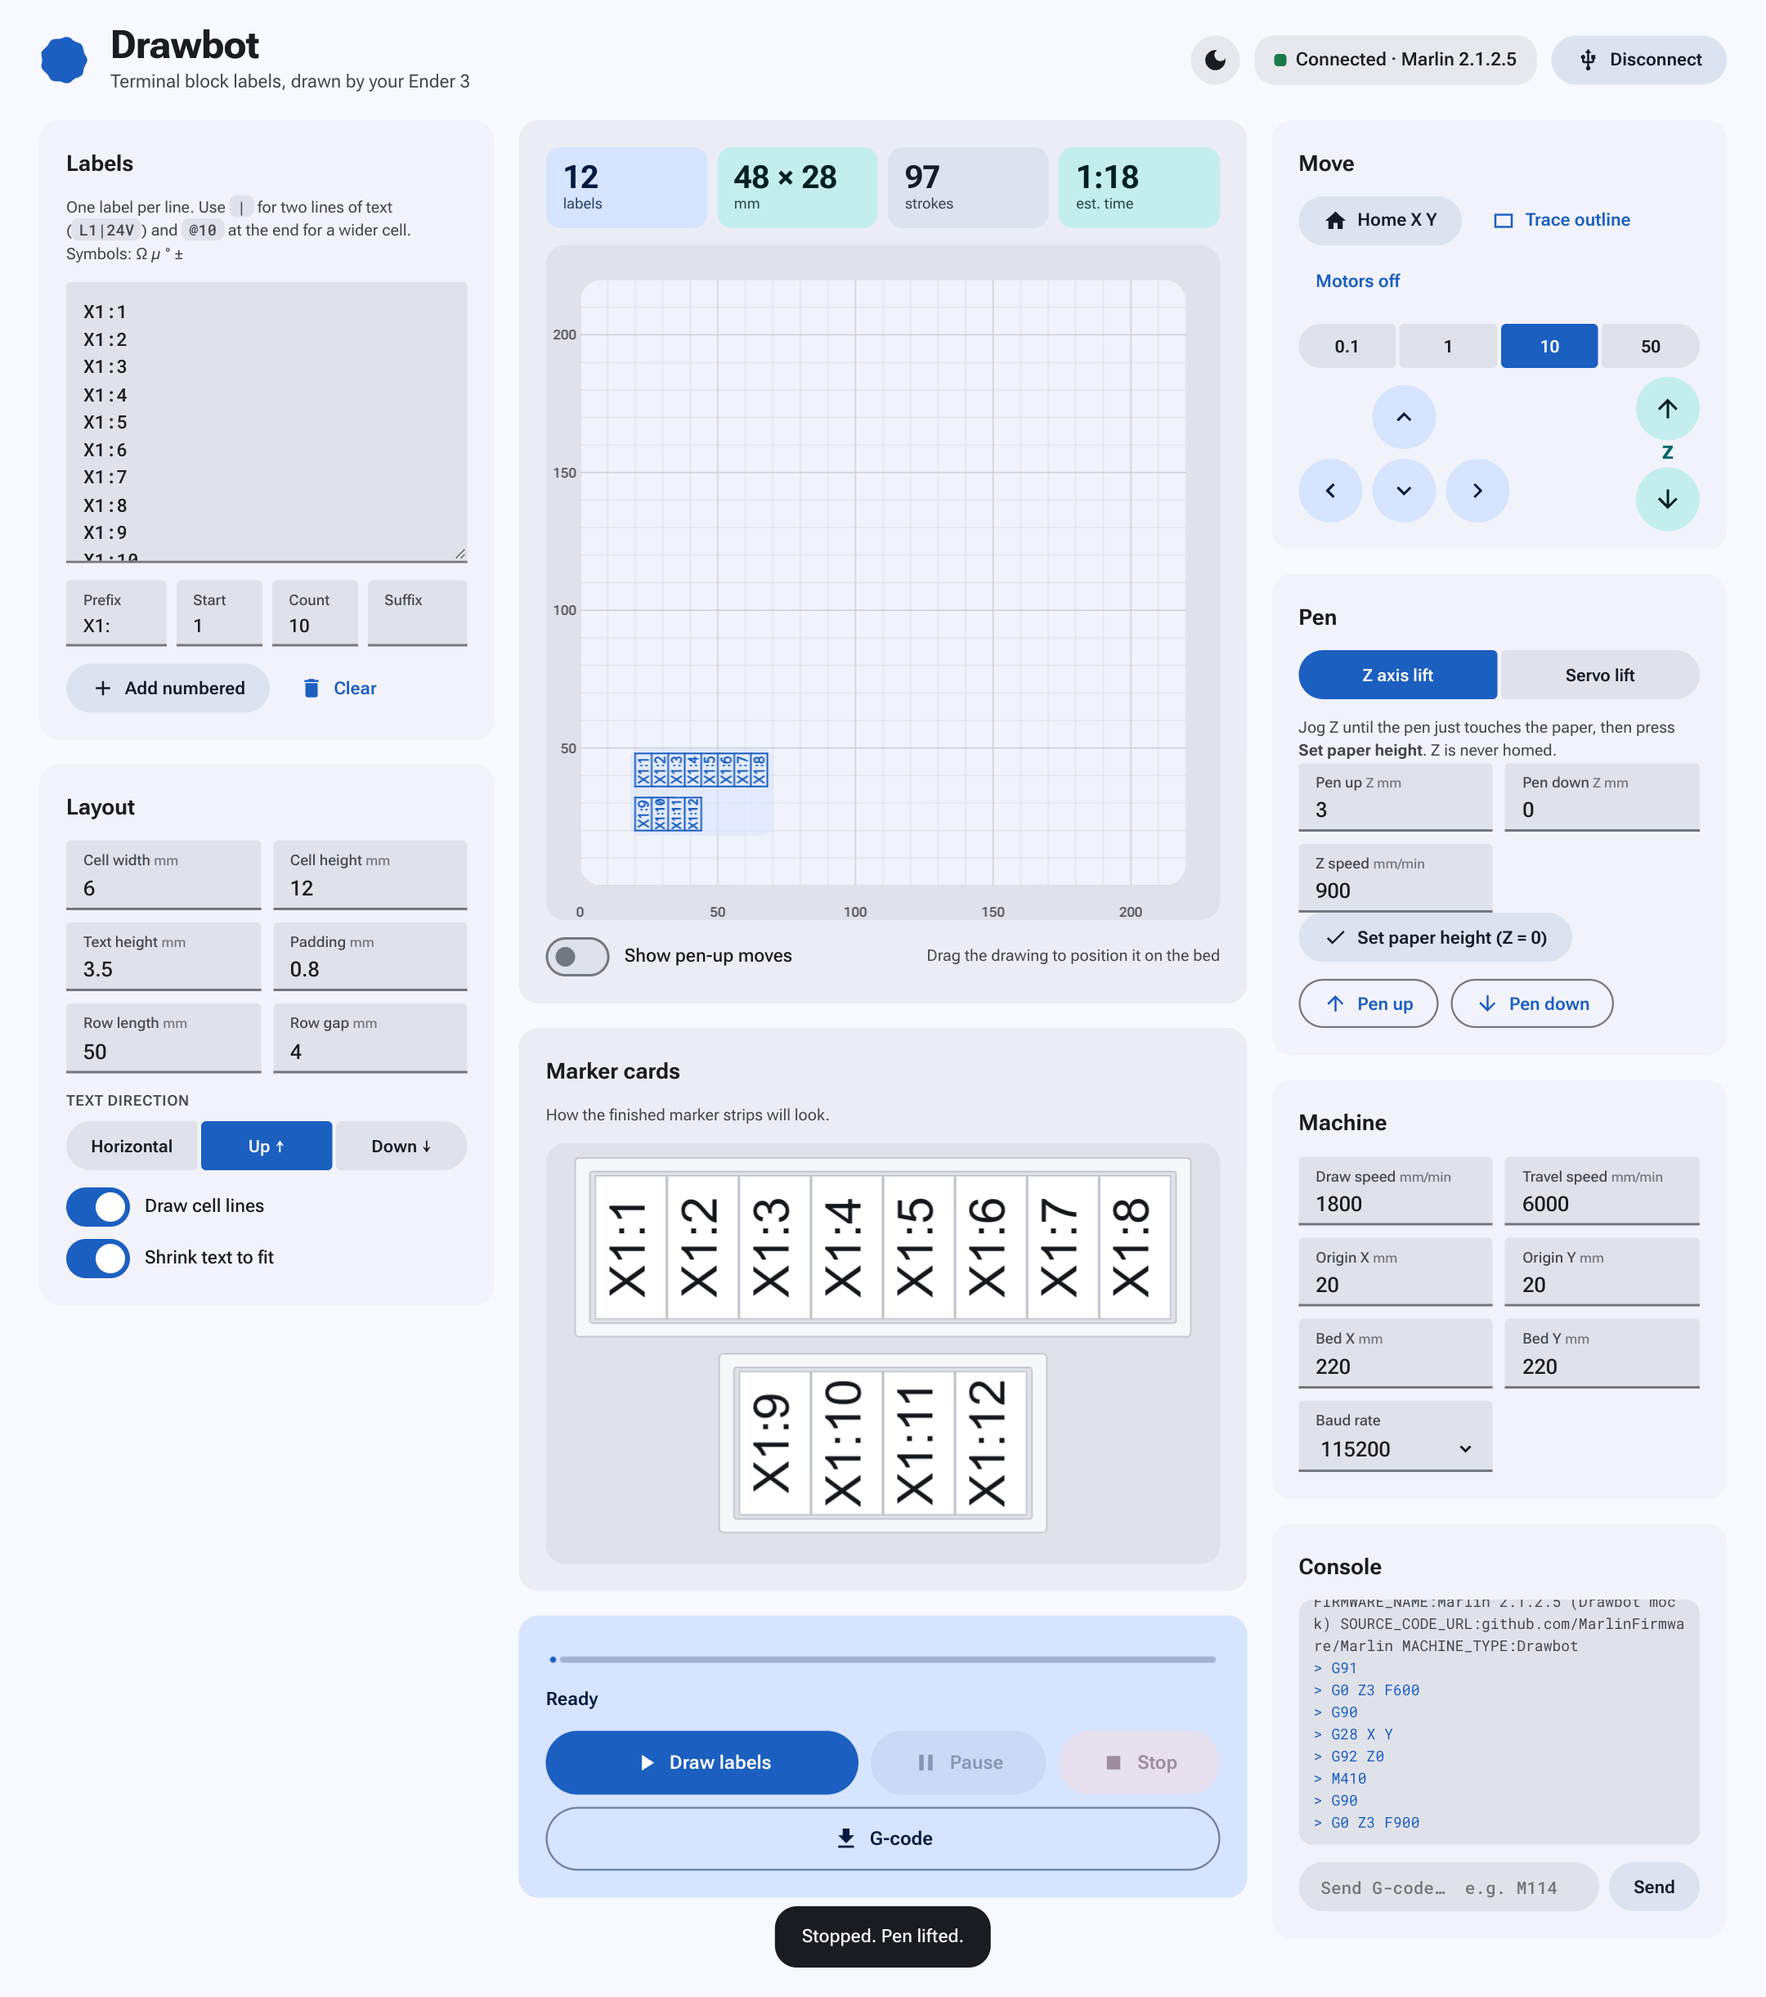
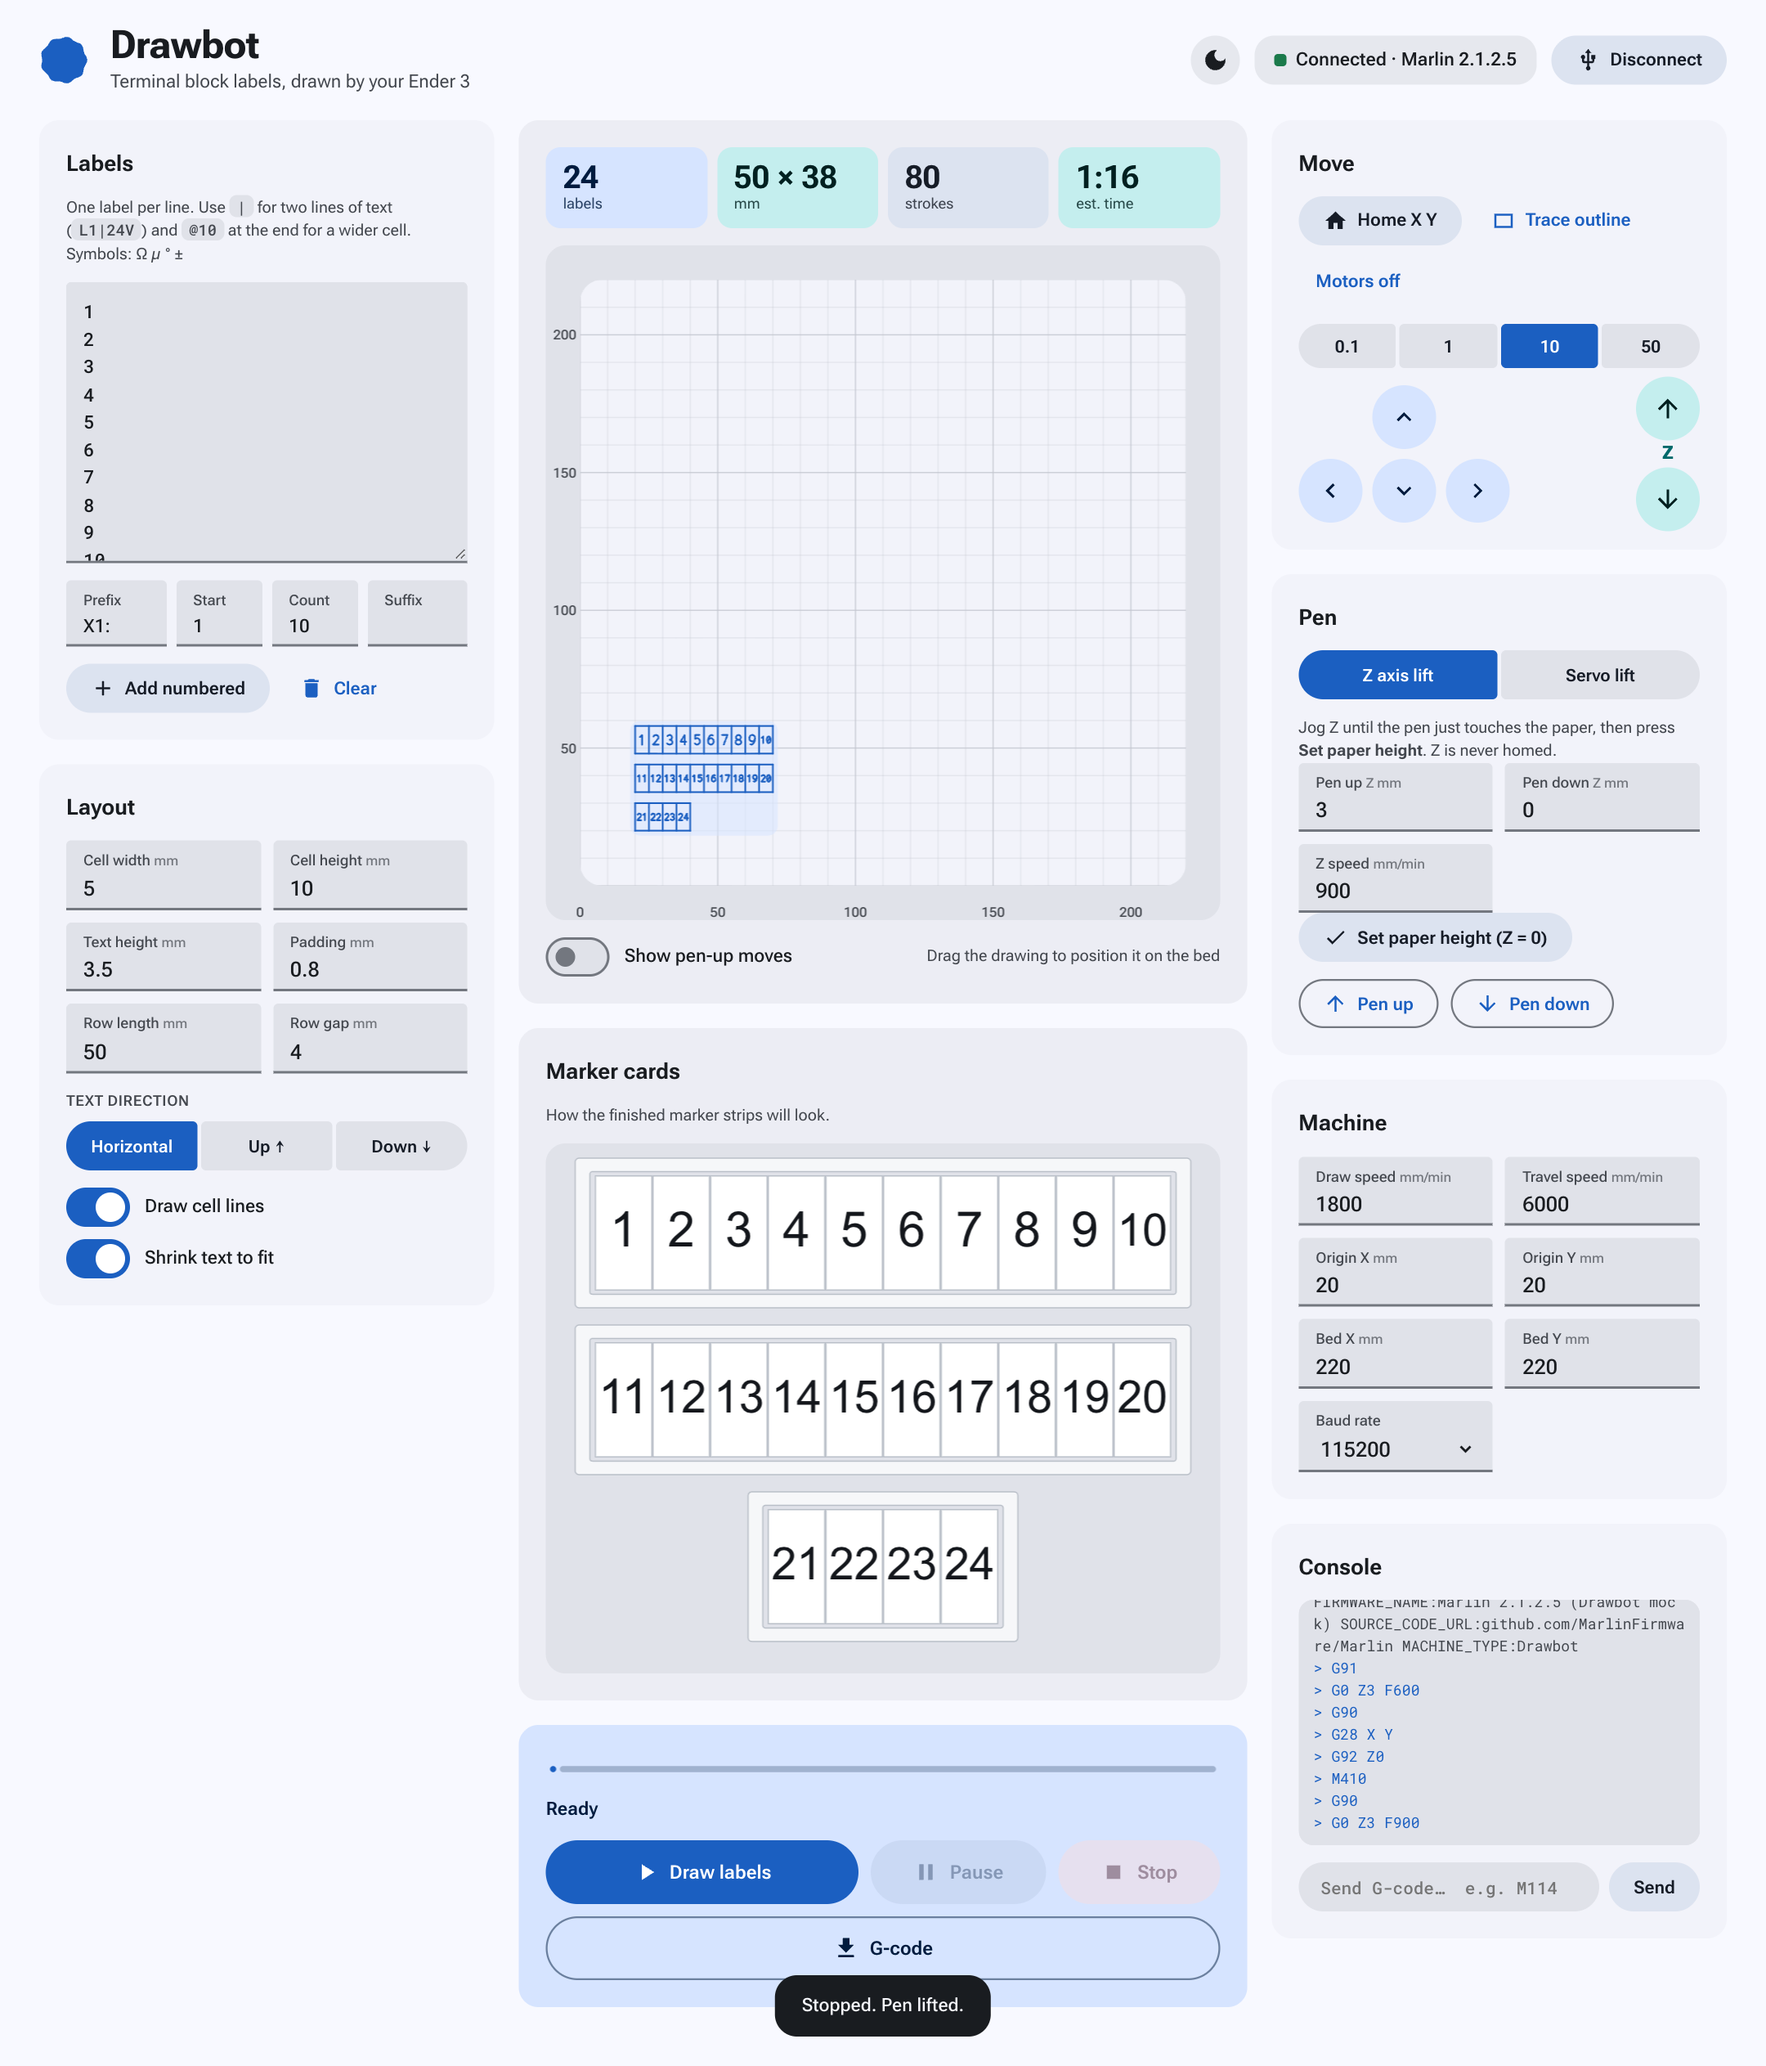
Regenerate screenshots with marker-strip defaults; re-verify firmware patch against current Marlin bugfix-2.1.x; update README

diff --git a/tests/e2e.js b/tests/e2e.js
@@ -21,9 +21,9 @@ const check = (group, name, pass, detail = '') => { results.push({ group, name, 
 const sleep = ms => new Promise(r => setTimeout(r, ms));
 
 const DATASETS = [
-  { id: 'numbered', title: 'Numbered strip, vertical text',
-    labels: Array.from({ length: 12 }, (_, i) => 'X1:' + (i + 1)).join('\n'),
-    num: { cellW: 6, cellH: 12, textH: 3.5 }, seg: { rotSeg: '90', modeSeg: 'z' } },
+  { id: 'numbered', title: 'Numbered marker strips, 5 mm cells',
+    labels: Array.from({ length: 24 }, (_, i) => String(i + 1)).join('\n'),
+    num: { cellW: 5, cellH: 10, textH: 3.5, rowLen: 50 }, seg: { rotSeg: '0', modeSeg: 'z' } },
   { id: 'symbols', title: 'Mixed symbols and two-line labels',
     labels: 'L1|24V\nL2|24V\n0V\nPE@8\n10kΩ\n4.7µF\n±5%\n85°C\nA-B/C\n(IN)+\n#7 &8', num: { cellW: 9, cellH: 14, textH: 3.5 }, seg: { rotSeg: '90', modeSeg: 'z' } },
   { id: 'horizontal', title: 'Horizontal text in wide cells',

diff --git a/README.md b/README.md
@@ -1,7 +1,7 @@
 # Drawbot — Ender 3 terminal-block label plotter
 
 ```
-web/        the app (Material 3 Expressive, Web Serial) — open in Chrome/Edge
+web/        the app (Material 3, light/dark theme, Web Serial) — open in Chrome/Edge
 firmware/   apply_drawbot.py — patches stock Marlin 2.1.x Ender-3 config for pen plotting
 ```
 
@@ -21,7 +21,7 @@ firmware/   apply_drawbot.py — patches stock Marlin 2.1.x Ender-3 config for p
 
 `cd tests && npm install && npm test` drives the real UI in headless Chrome against a **simulated Marlin** (`web/mock-serial.js`, also usable as a demo: open `index.html?mock`).
 The simulator models Marlin's 128-byte RX buffer, `ok` replies, positions and pen state, and records every pen-down move.
-Five label datasets (numbered strip, symbols + two-line labels, horizontal text, servo lift with 40 labels, single-label edge case) plus pause/resume, stop, jog and safety-dialog scenarios run end-to-end;
+Five label datasets (numbered 5 mm marker strips, symbols + two-line labels, horizontal text, servo lift with 40 labels, single-label edge case) plus pause/resume, stop, jog and safety-dialog scenarios run end-to-end;
 each dataset is checked for: all lines acknowledged, no buffer overflow, ink length and bounding box matching the design (≤0.05 mm), one pen-down per stroke, pen up and parked at the end.
 Results with images of what the simulated pen drew: **[docs/TEST_RESULTS.md](docs/TEST_RESULTS.md)** (67/67 passing).
 This validates the software and the G-code protocol handling, not real hardware or Marlin's actual motion.
@@ -43,7 +43,7 @@ CH340 boards on older macOS/Windows may need the CH340 driver.
 
 It turns the heaters/thermal protection off (no hotend), disables the Z-min software limit, raises Z speed
 (5→20 mm/s), enables `EMERGENCY_PARSER` (instant Stop via `M410`), and enables servo 0 on the BLTouch header.
-The patch script was tested against the stock V1 and V422 configs; **the firmware has not been compiled or run on hardware** — expect to check the build.
+The patch script was re-checked on 2026-11-22 against the current `bugfix-2.1.x` stock V1 and V422 configs (every setting found and patched); **the firmware has not been compiled or run on hardware** — expect to check the build.
 On 4.2.x boards, if compile complains about a missing sensor with `TEMP_SENSOR_0 0`, set it to `998` (dummy).
 
 ## 3. Pen mount & workflow
@@ -55,6 +55,6 @@ On 4.2.x boards, if compile complains about a missing sensor with `TEMP_SENSOR_0
 
 ## Label syntax
 One label per line · `L1|24V` = two text lines · `PE@8` = 8 mm wide cell · **Add numbered** generates `X1:1…`.
-Font is a built-in single-stroke font (A–Z, 0–9, `- + = . , : / ( ) % & # @ Ω µ ° ±`…). Text defaults to vertical (reads upward) so it fits narrow 5–6 mm terminals.
+Font is a built-in single-stroke font (A–Z, 0–9, `- + = . , : / ( ) % & # @ Ω µ ° ±`…). Defaults match 5 mm marker strips (10 per row, horizontal text); switch to Up/Down for narrower cells. The **Marker cards** panel previews the finished strips.
 
 Stop sends `M410` and lifts the pen. Settings persist in the browser. **Not tested against a real printer** — try a dry run with the pen up first.

diff --git a/docs/TEST_RESULTS.md b/docs/TEST_RESULTS.md
@@ -10,20 +10,20 @@ Generated by `tests/e2e.js` (headless Chrome → real UI → simulated Marlin, `
 |---|---|---|
 | ✅ | page loads in demo mode with no errors |  |
 
-## Numbered strip, vertical text
+## Numbered marker strips, 5 mm cells
 
-![Numbered strip, vertical text](screenshots/run-numbered.png)
+![Numbered marker strips, 5 mm cells](screenshots/run-numbered.png)
 
 | | Check | Detail |
 |---|---|---|
-| ✅ | layout produced every label | (12/12 labels, 97 strokes, 575 mm of ink) |
-| ✅ | design fits on the bed | (48×28 mm at 20,20) |
+| ✅ | layout produced every label | (24/24 labels, 80 strokes, 729 mm of ink) |
+| ✅ | design fits on the bed | (50×38 mm at 20,20) |
 | ✅ | connected and detected Marlin | ("Connected · Marlin 2.1.2.5") |
-| ✅ | every G-code line was acknowledged | (624/624 commands in 0.1s) |
+| ✅ | every G-code line was acknowledged | (772/772 commands in 0.1s) |
 | ✅ | never overflowed Marlin's 128-byte RX buffer | (peak 74 bytes, 0 overflows) |
-| ✅ | ink length matches design | (574.5 mm drawn vs 574.5 mm designed) |
-| ✅ | one pen-down per stroke | (97/97) |
-| ✅ | drawn bounding box lands at the origin offset | (X 20.0–68.0, Y 20.0–48.0 mm; max error 0.000 mm) |
+| ✅ | ink length matches design | (729.3 mm drawn vs 729.2 mm designed) |
+| ✅ | one pen-down per stroke | (80/80) |
+| ✅ | drawn bounding box lands at the origin offset | (X 20.0–70.0, Y 20.0–58.0 mm; max error 0.000 mm) |
 | ✅ | pen lifted and parked at the end | (pos 0,220, pen up) |
 | ✅ | no JS errors in the page |  |
 
@@ -36,7 +36,7 @@ Generated by `tests/e2e.js` (headless Chrome → real UI → simulated Marlin, `
 | ✅ | layout produced every label | (11/11 labels, 86 strokes, 709 mm of ink) |
 | ✅ | design fits on the bed | (45×50 mm at 20,20) |
 | ✅ | connected and detected Marlin | ("Connected · Marlin 2.1.2.5") |
-| ✅ | every G-code line was acknowledged | (784/784 commands in 0.1s) |
+| ✅ | every G-code line was acknowledged | (784/784 commands in 0.2s) |
 | ✅ | never overflowed Marlin's 128-byte RX buffer | (peak 74 bytes, 0 overflows) |
 | ✅ | ink length matches design | (709.3 mm drawn vs 709.4 mm designed) |
 | ✅ | one pen-down per stroke | (86/86) |
@@ -99,9 +99,9 @@ Generated by `tests/e2e.js` (headless Chrome → real UI → simulated Marlin, `
 
 | | Check | Detail |
 |---|---|---|
-| ✅ | no commands run while paused | (232 → 232) |
+| ✅ | no commands run while paused | (282 → 282) |
 | ✅ | UI reports Done only after the last command executed |  |
-| ✅ | job completes after resume with correct ink | (574.5 vs 574.5 mm) |
+| ✅ | job completes after resume with correct ink | (729.3 vs 729.2 mm) |
 
 ## Stop
 
